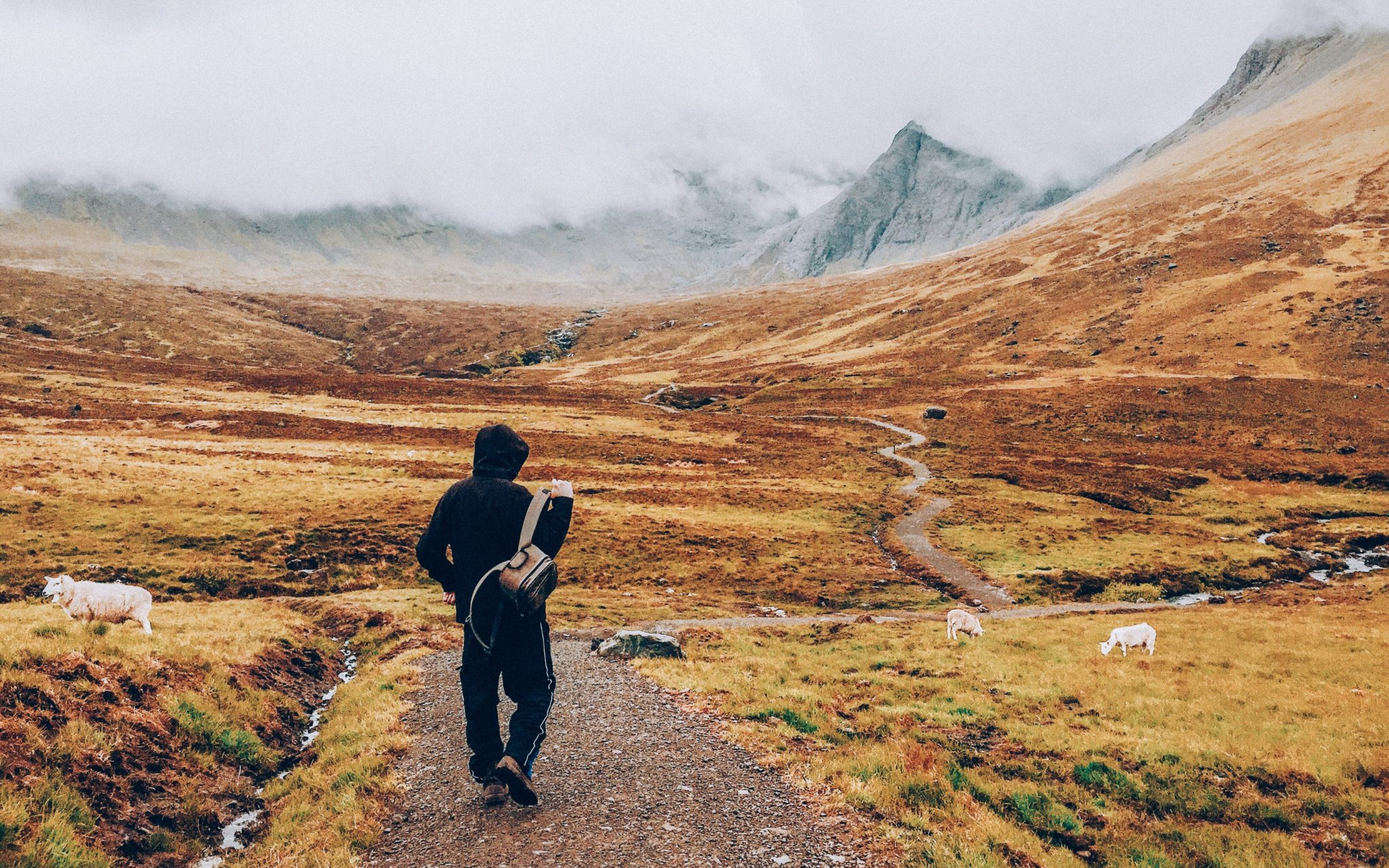
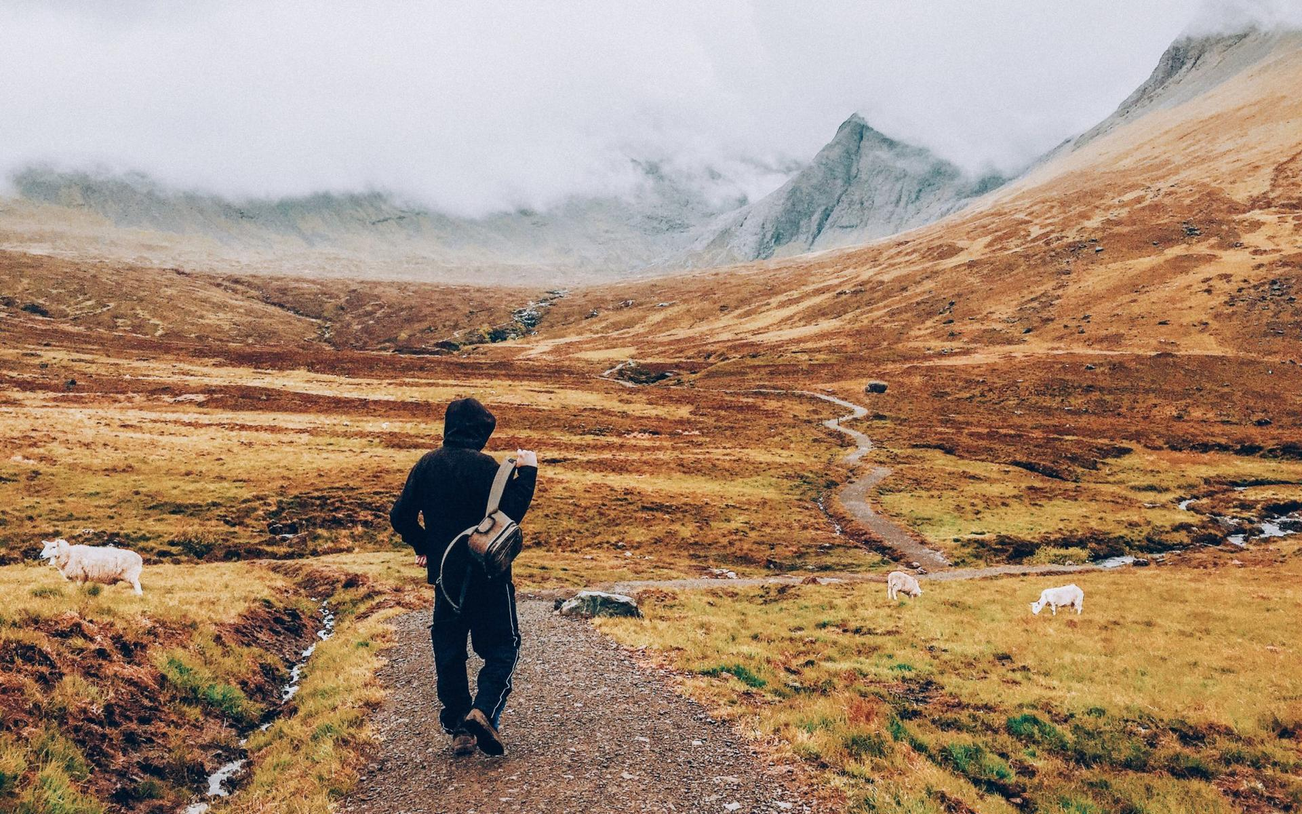
Resized. Will see as cover at the end

diff --git a/app/assets/stylesheets/application.scss b/app/assets/stylesheets/application.scss
@@ -12,4 +12,7 @@
 
 @import 'bootstrap';
 
-
+.imgcar {
+    height: 1160px;
+    width: auto;
+}
